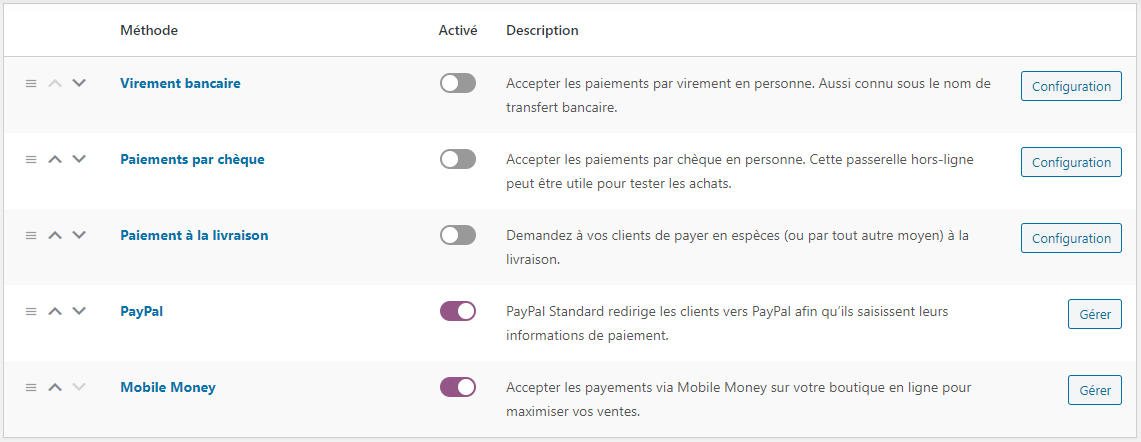
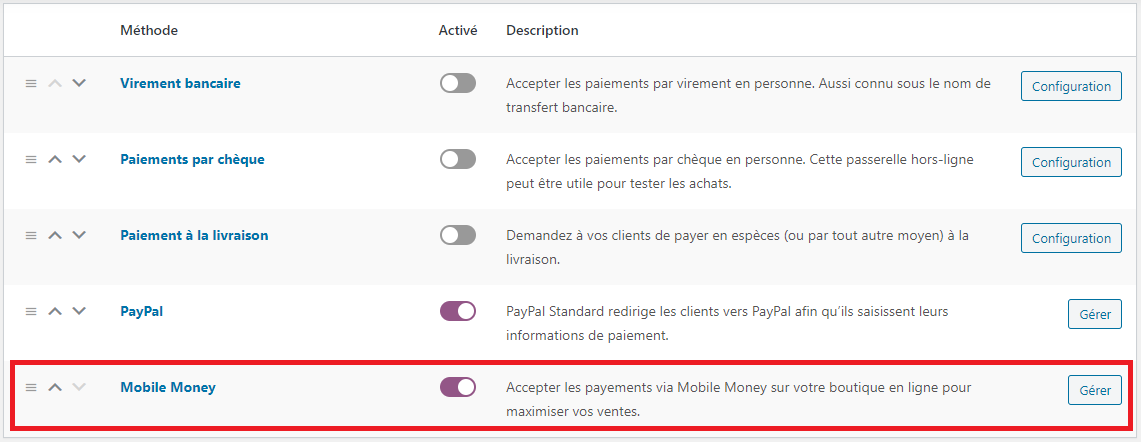
Ajout des captures d'écrans

Changed region(s): [[0.0, 0.7941, 1.0, 1.0]]

diff --git a/README.md b/README.md
@@ -14,6 +14,10 @@ Les instructions ci-dessous vous guideront pour la contribution dans le dévelop
 
 ![Configuration du plugin](images/img2.png)
 
+#### Formulaire du Plugin sur le Front End du Site
+
+![Configuration du plugin](images/img3.png)
+
 ### Prérequis
 
 Si vous êtes l'utilisateur final, vous n'avez peut-être pas besoin de beaucoup de choses, cependant vous aurez besoin:
